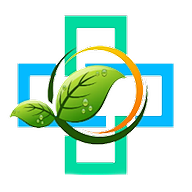
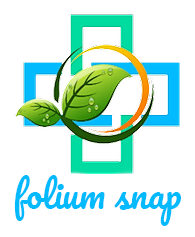
homepage redesign completed

diff --git a/lib/screen/home.dart b/lib/screen/home.dart
@@ -1,7 +1,6 @@
 import 'identifier.dart';
 import 'package:camera/camera.dart';
 import 'package:flutter/material.dart';
-import 'package:google_fonts/google_fonts.dart';
 import 'package:folium_snap/screen/search.dart';
 import 'package:folium_snap/screen/about_us.dart';
 
@@ -40,9 +39,10 @@ class HomePage extends StatelessWidget {
                   begin: Alignment.topRight,
                   end: Alignment.bottomLeft,
                   colors: [
+                    Colors.green[600],
+                    Colors.green[300],
+                    // Theme.of(context).primaryColor,
                     // Theme.of(context).primaryColorLight,
-                    Theme.of(context).accentColor,
-                    Theme.of(context).primaryColorDark,
                   ],
                 ),
               ),
@@ -50,13 +50,9 @@ class HomePage extends StatelessWidget {
                 child: Column(
                   mainAxisAlignment: MainAxisAlignment.center,
                   children: <Widget>[
-                    Image.asset("assets/images/launcher_icon.png"),
-                    Text(
-                      "Folium Snap",
-                      style: GoogleFonts.pacifico(
-                        fontSize: 30,
-                        // color: Theme.of(context).primaryColorLight,
-                      ),
+                    Image.asset(
+                      "assets/images/launcher_icon.png",
+                      scale: 0.8,
                     ),
                     SizedBox(height: 25),
                   ],
@@ -74,7 +70,7 @@ class HomePage extends StatelessWidget {
           ),
           Container(
             width: double.infinity,
-            height: 100,
+            height: 120,
             margin: EdgeInsets.symmetric(horizontal: 25, vertical: 15),
             decoration: BoxDecoration(
               borderRadius: BorderRadius.circular(20),
@@ -83,7 +79,7 @@ class HomePage extends StatelessWidget {
                 BoxShadow(
                   offset: Offset(0, 8),
                   blurRadius: 24,
-                  color: Colors.grey[200],
+                  color: Colors.grey[300],
                 ),
               ],
             ),
@@ -99,7 +95,7 @@ class HomePage extends StatelessWidget {
                 );
               },
               splashColor: Theme.of(context).accentColor,
-              padding: EdgeInsets.symmetric(vertical: 10, horizontal: 20),
+              padding: EdgeInsets.symmetric(vertical: 10, horizontal: 10),
               child: Row(
                 crossAxisAlignment: CrossAxisAlignment.center,
                 mainAxisAlignment: MainAxisAlignment.spaceAround,
@@ -107,14 +103,26 @@ class HomePage extends StatelessWidget {
                   Icon(
                     Icons.camera_alt,
                     size: 70,
-                    color: Theme.of(context).primaryColorDark,
+                    color: Theme.of(context).primaryColor,
                   ),
-                  Text(
-                    '  Scan the Leaf  ',
-                    style: TextStyle(
-                      fontSize: 30,
-                      color: Theme.of(context).primaryColorDark,
-                    ),
+                  Column(
+                    mainAxisAlignment: MainAxisAlignment.center,
+                    children: <Widget>[
+                      Text(
+                        'Scan the Leaf  ',
+                        style: TextStyle(
+                          fontSize: 30,
+                          color: Theme.of(context).primaryColor,
+                        ),
+                      ),
+                      Text(
+                        '  Ensure lighting & alignment',
+                        style: TextStyle(
+                          fontSize: 17,
+                          color: Theme.of(context).primaryColorLight,
+                        ),
+                      ),
+                    ],
                   ),
                 ],
               ),
@@ -122,8 +130,8 @@ class HomePage extends StatelessWidget {
           ),
           Container(
             width: double.infinity,
-            height: 100,
-            margin: EdgeInsets.symmetric(horizontal: 25, vertical: 15),
+            height: 120,
+            margin: EdgeInsets.symmetric(horizontal: 25, vertical: 10),
             decoration: BoxDecoration(
               borderRadius: BorderRadius.circular(20),
               color: Colors.white,
@@ -131,7 +139,7 @@ class HomePage extends StatelessWidget {
                 BoxShadow(
                   offset: Offset(0, 8),
                   blurRadius: 24,
-                  color: Colors.grey[200],
+                  color: Colors.grey[300],
                 ),
               ],
             ),
@@ -143,7 +151,7 @@ class HomePage extends StatelessWidget {
                 );
               },
               splashColor: Theme.of(context).accentColor,
-              padding: EdgeInsets.symmetric(vertical: 10, horizontal: 20),
+              padding: EdgeInsets.symmetric(vertical: 10, horizontal: 10),
               child: Row(
                 crossAxisAlignment: CrossAxisAlignment.center,
                 mainAxisAlignment: MainAxisAlignment.spaceAround,
@@ -151,20 +159,32 @@ class HomePage extends StatelessWidget {
                   Icon(
                     Icons.search,
                     size: 70,
-                    color: Theme.of(context).primaryColorDark,
+                    color: Theme.of(context).primaryColor,
                   ),
-                  Text(
-                    ' Search for Cure ',
-                    style: TextStyle(
-                      fontSize: 30,
-                      color: Theme.of(context).primaryColorDark,
-                    ),
+                  Column(
+                    crossAxisAlignment: CrossAxisAlignment.start,
+                    mainAxisAlignment: MainAxisAlignment.center,
+                    children: <Widget>[
+                      Text(
+                        '  Search for Cure ',
+                        style: TextStyle(
+                          fontSize: 30,
+                          color: Theme.of(context).primaryColor,
+                        ),
+                      ),
+                      Text(
+                        '   Search for the disease',
+                        style: TextStyle(
+                          fontSize: 17,
+                          color: Theme.of(context).primaryColorLight,
+                        ),
+                      ),
+                    ],
                   ),
                 ],
               ),
             ),
           ),
-          SizedBox(height: 20)
         ],
       ),
     );
